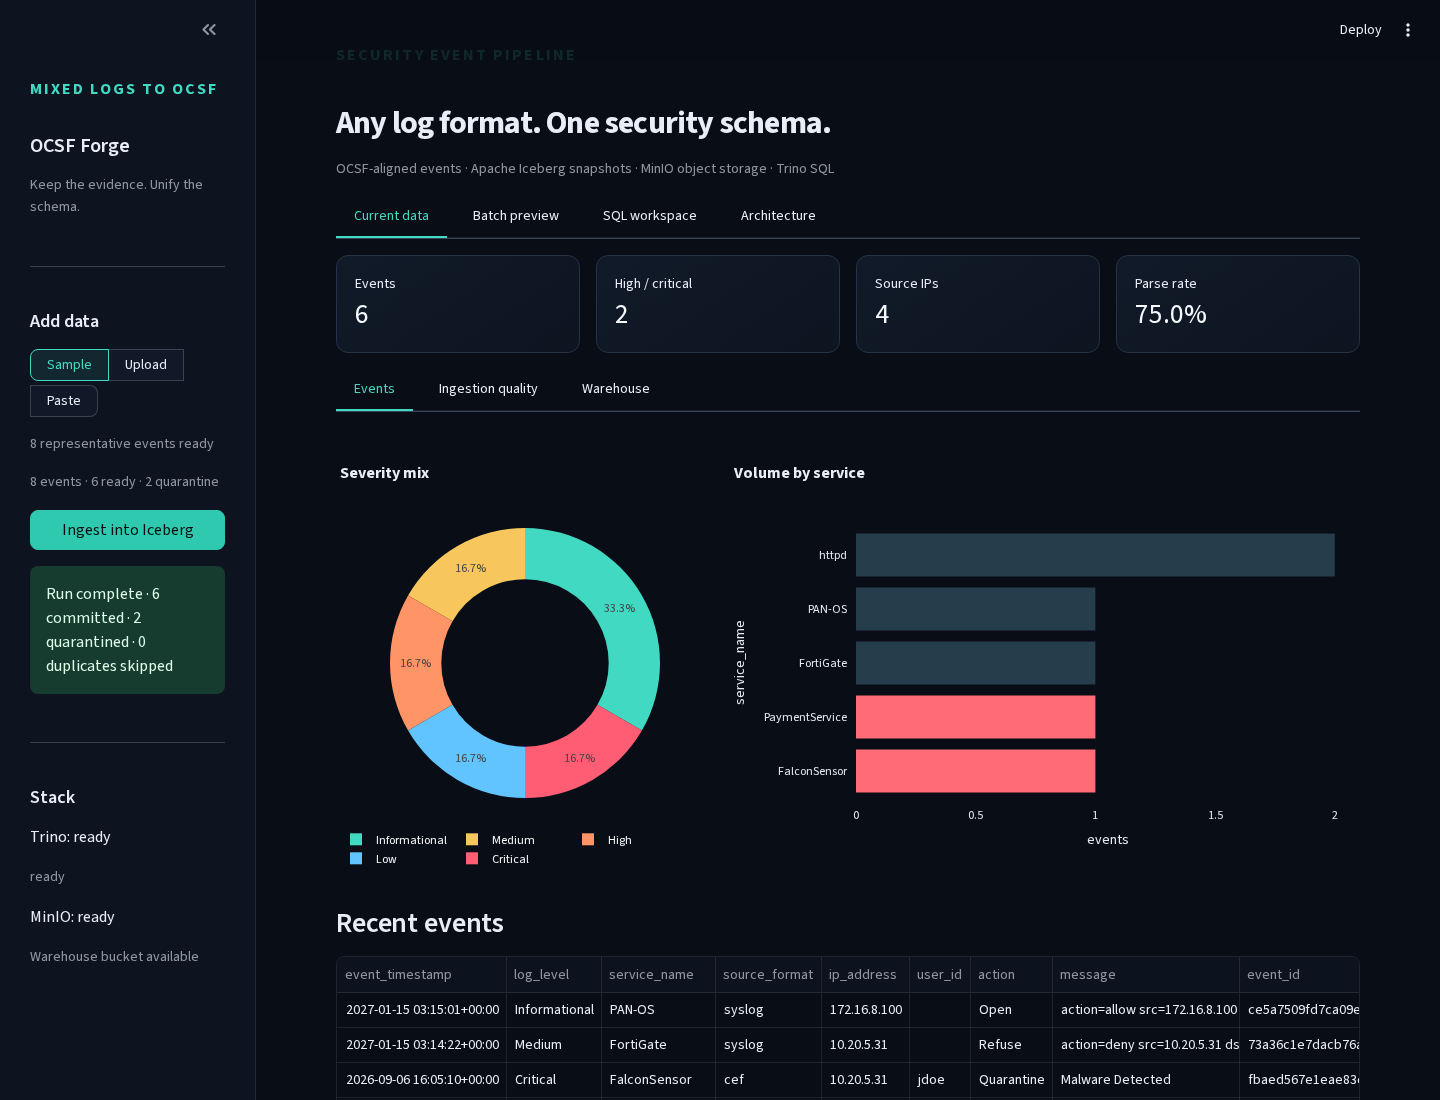
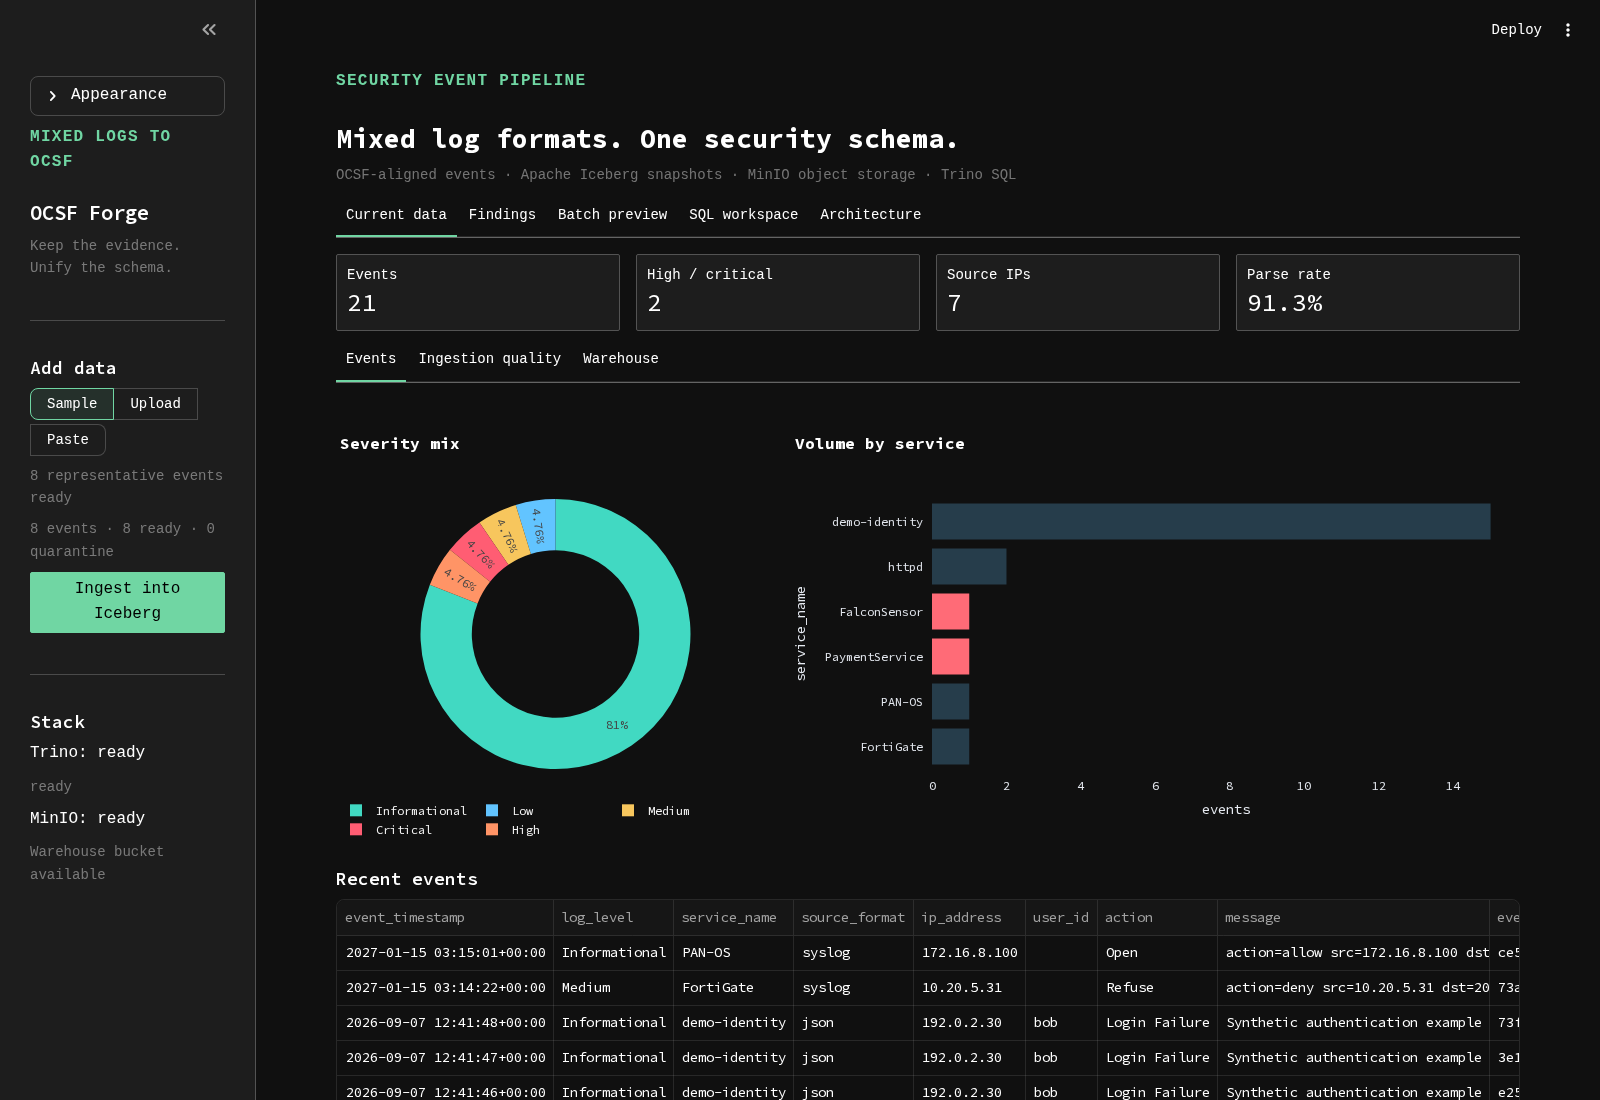
Refresh README screenshots and document appearance controls

diff --git a/README.md b/README.md
@@ -12,18 +12,18 @@ An optional detection worker identifies repeated authentication failures, possib
 
 The project exists for a familiar reason: collecting logs is easy; making eight incompatible formats useful in the same query is not.
 
-![Dashboard showing event totals, severity distribution, and services](docs/images/dashboard.png)
+![Terminal-theme dashboard showing stored event totals, severity distribution, services, and recent events](docs/images/dashboard.png)
 
-Screenshots use the bundled synthetic sample logs. [Why OCSF?](docs/why-ocsf.md)
+Screenshots captured from the running app on September 9, 2026, using retained bundled samples and the synthetic authentication demo. Counts and quarantine rates reflect that historical demo data, not a fresh run or a throughput benchmark. [Why OCSF?](docs/why-ocsf.md)
 
 [Evaluation guide and verification checkpoint](docs/evaluation.md) · [Contribute a parser](docs/parser-development.md)
 
 <details>
 <summary>SQL workspace and ingestion results</summary>
 
-![SQL workspace with a query and results from Iceberg](docs/images/sql-workspace.png)
+![Terminal-theme SQL workspace querying three authentication findings from Iceberg](docs/images/sql-workspace.png)
 
-![Ingestion quality showing a completed sample run](docs/images/ingestion.png)
+![Ingestion quality showing parser coverage and historical completed and quarantined demo runs](docs/images/ingestion.png)
 
 </details>
 
@@ -87,6 +87,19 @@ Useful local endpoints:
 
 All ports bind to loopback. Named volumes keep the warehouse, catalog, and Kafka state when containers are recreated. `docker compose down --volumes` deletes that state permanently.
 
+## Make the workspace yours
+
+Terminal is the default: compact spacing, monospace text, sharp corners, and no glow. Open the collapsed **Appearance** sidebar panel for Solarized, High Contrast, Cyberpunk, or Custom. Custom controls cover accent/background, font, density, corners, glow, and scanlines. Settings survive reruns and can be shared by copying the browser URL.
+
+<details>
+<summary>Preview the appearance controls</summary>
+
+![Custom appearance controls alongside the dashboard, retaining the compact Terminal palette](docs/images/appearance.png)
+
+</details>
+
+Native table canvases and charts do not fully inherit per-session CSS changes. See [appearance controls and tradeoffs](docs/appearance.md).
+
 ## What is already handled
 
 - CEF extension values containing spaces and escaped delimiters
@@ -142,7 +155,7 @@ Upload the generated file and ingest it. The 15 synthetic events produce three l
 
 Select a finding and choose **Load supporting events** to inspect its normalized evidence without copying IDs into SQL. Missing retained evidence is reported explicitly.
 
-![Three authentication findings with rule details and source evidence IDs](docs/images/detections.png)
+![Terminal-theme Findings view with three authentication alerts, selected rule, and source evidence IDs](docs/images/detections.png)
 
 ## Operate it
 

diff --git a/docs/appearance.md b/docs/appearance.md
@@ -4,6 +4,10 @@ The default Terminal preset uses a neutral dark palette, one mint accent, monosp
 
 Presets: Terminal, Solarized (dark teal), High Contrast (black/yellow), and Cyberpunk (purple, rounded, subtle glow). Custom exposes accent/background, monospace or sans font, three density levels, 0–16 px corners, glow/gradients, and scanlines. Low accent contrast produces a warning; foreground and button text are derived for contrast.
 
+![Custom appearance controls in the running dashboard](images/appearance.png)
+
+Captured September 9, 2026, with Custom retaining the Terminal palette and effects disabled. The other dashboard screenshots in the README use the default Terminal preset.
+
 Settings survive Streamlit reruns and switching away from Custom. Copy the browser URL to share a preset or custom appearance. Only validated `ui_*` appearance keys are read; unrelated query parameters are preserved. Selecting Terminal removes appearance parameters. URLs initialize new sessions; changing the URL in place without starting a new session does not override active widget state. This is session/URL persistence, not an account or device preference store.
 
 ## Integration

diff --git a/CHANGELOG.md b/CHANGELOG.md
@@ -4,6 +4,8 @@ Changes to parser output, event identity, and storage layout are recorded here. 
 
 ## Unreleased
 
+- Refresh README dashboard, SQL, ingestion, and findings screenshots for the Terminal theme. Add an Appearance preview and clarify the capture date and historical synthetic-data context.
+
 - Replace the decorative default theme with compact Terminal styling. Add three alternative presets and a collapsed Custom appearance panel with validated, shareable URL settings. See [appearance controls and limitations](docs/appearance.md).
 
 - Add an offline `python -m ulpf demo` and bounded `normalize` CLI with machine-readable output, rejection diagnostics, and documented exit codes.
